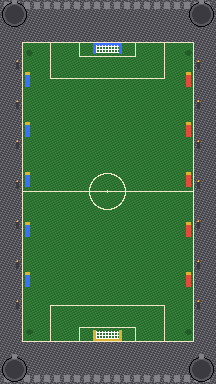
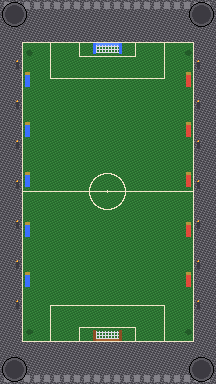
PIXEL: bronze pitch, grass clamp, letterbox, cream HUD.
Map sim to Pixel Forge physics_clamp; draw tighter car sprites; letterbox 216×384; cream/navy boost/chat over bronze south goal.

diff --git a/pixel.js b/pixel.js
@@ -1,14 +1,16 @@
 /**
  * PIXEL mode — Pixel Forge castle pitch + 8-dir vehicle atlases + ball VFX.
- * Same sim bodies (x/z/yaw); no physics here.
+ * Same sim bodies (x/z/yaw). Playable area maps to grass inset (not walls/sky).
  */
 import { FW, FL } from "./catalog.js";
 
 const CELL = 32;
-const GUT = 1; // between cells only (no outer frame)
+const GUT = 1;
 const ROW_OF = { cybertruck: 0, model3: 1, cybercab: 2, semi: 3 };
 
-// ball_vfx_atlas.png row layout (1px magenta between rows)
+// pitch_216x384.png — Pixel Forge physics_clamp (inclusive xyxy)
+const CLAMP = { x0: 24, y0: 44, x1: 191, y1: 339 };
+
 const BALL = {
   ball16: { y: 0, size: 16, frames: 4 },
   ball24: { y: 17, size: 24, frames: 4 },
@@ -29,8 +31,6 @@ function loadImage(src) {
 }
 
 function yawToCol(yaw) {
-  // forward: (-sin yaw, -cos yaw). atan2(fwdX,fwdZ):
-  // yaw=0 → -z (screen up) → S; yaw=π → +z (screen down) → N
   const fwdX = -Math.sin(yaw);
   const fwdZ = -Math.cos(yaw);
   let ang = Math.atan2(fwdX, fwdZ);
@@ -44,9 +44,6 @@ function createPixelView() {
   canvas.setAttribute("aria-hidden", "true");
   Object.assign(canvas.style, {
     position: "fixed",
-    inset: "0",
-    width: "100%",
-    height: "100%",
     zIndex: "0",
     display: "none",
     imageRendering: "pixelated",
@@ -91,15 +88,12 @@ function createPixelView() {
   function isActive() { return active; }
 
   function worldTo(x, z) {
-    const padX = 18;
-    const padTop = 28;
-    const padBot = 28;
-    const fieldW = VW - padX * 2;
-    const fieldH = VH - padTop - padBot;
+    const gw = CLAMP.x1 - CLAMP.x0;
+    const gh = CLAMP.y1 - CLAMP.y0;
     return {
-      sx: padX + (x / FW + 0.5) * fieldW,
-      sy: padTop + (z / FL + 0.5) * fieldH,
-      scale: fieldW / FW
+      sx: CLAMP.x0 + (x / FW + 0.5) * gw,
+      sy: CLAMP.y0 + (z / FL + 0.5) * gh,
+      scale: gw / FW
     };
   }
 
@@ -108,35 +102,35 @@ function createPixelView() {
       ctx.imageSmoothingEnabled = false;
       ctx.drawImage(pitchImg, 0, 0, VW, VH);
       if (night) {
-        ctx.fillStyle = "rgba(8,16,48,0.28)";
+        ctx.fillStyle = "rgba(8,16,48,0.22)";
         ctx.fillRect(0, 0, VW, VH);
       }
       return;
     }
-    ctx.fillStyle = night ? "#0c1430" : "#3a6aaa";
+    ctx.fillStyle = "#0c1430";
     ctx.fillRect(0, 0, VW, VH);
-    ctx.fillStyle = night ? "#1e6b28" : "#2f9a3a";
-    ctx.fillRect(20, 18, VW - 40, VH - 36);
   }
 
-  function blitCar(kind, yaw, boosting, sx, sy, scale) {
-    const row = ROW_OF[kind] ?? 1;
-    const col = yawToCol(yaw);
-    const sheet = boosting && boostImg ? boostImg : carsImg;
+  function blitCar(c, sx, sy, scale) {
+    const row = ROW_OF[c.kind] ?? 1;
+    const col = yawToCol(c.yaw);
+    const sheet = c.boosting && boostImg ? boostImg : carsImg;
     if (!sheet) return false;
     const sx0 = col * (CELL + GUT);
     const sy0 = row * (CELL + GUT);
-    const draw = Math.max(16, Math.min(40, scale * 3.4));
-    ctx.drawImage(sheet, sx0, sy0, CELL, CELL, sx - draw / 2, sy - draw / 2, draw, draw);
+    // Hug the art (~75% of the 32px cell); skip 1px in case magenta gutter bleeds
+    const worldLen = Number.isFinite(c.l) ? c.l : 4;
+    const draw = Math.max(10, Math.min(26, worldLen * scale * 0.72));
+    ctx.drawImage(sheet, sx0 + 1, sy0 + 1, CELL - 2, CELL - 2, sx - draw / 2, sy - draw / 2, draw, draw);
     return true;
   }
 
   function drawCar(c) {
     if (!c) return;
     const { sx, sy, scale } = worldTo(c.x, c.z);
-    if (!blitCar(c.kind, c.yaw, !!c.boosting, sx, sy, scale)) {
+    if (!blitCar(c, sx, sy, scale)) {
       ctx.fillStyle = "#3a6fff";
-      ctx.fillRect(sx - 4, sy - 3, 8, 6);
+      ctx.fillRect(sx - 3, sy - 2, 6, 4);
     }
   }
 
@@ -153,10 +147,9 @@ function createPixelView() {
   function drawBall(ball) {
     if (!ball) return;
     const { sx, sy, scale } = worldTo(ball.x, ball.z);
-    const r = Math.max(4, 0.6 * scale);
+    const r = Math.max(3, 0.45 * scale);
     const spin = Math.abs(ball.vx || 0) + Math.abs(ball.vz || 0);
     const frame = Math.floor((tAnim * 10 + spin * 0.15) % 4);
-
     blitVfx("shadow", 0, sx - r, sy + r * 0.35, r * 2, r);
     if (!blitVfx("ball24", frame, sx - r, sy - r, r * 2, r * 2)) {
       ctx.fillStyle = "#f4f0e6";
@@ -167,14 +160,14 @@ function createPixelView() {
   }
 
   function drawHud(label) {
-    ctx.fillStyle = "rgba(0,0,0,0.5)";
-    ctx.fillRect(4, 3, 110, 14);
-    ctx.fillStyle = "#f0c020";
-    ctx.font = "bold 8px monospace";
-    ctx.fillText("GROKET · PIXEL", 8, 13);
+    ctx.fillStyle = "rgba(10,16,32,0.72)";
+    ctx.fillRect(4, 3, 102, 13);
     ctx.fillStyle = "#f7f1d0";
+    ctx.font = "bold 8px monospace";
+    ctx.fillText("GROKET  PIXEL", 8, 12);
+    ctx.fillStyle = "#c8d4ff";
     ctx.font = "7px monospace";
-    ctx.fillText(label || (night ? "TORCH NIGHT" : "CASTLE DAY"), VW - 72, 13);
+    ctx.fillText(label || (night ? "TORCH NIGHT" : "CASTLE DAY"), VW - 70, 12);
   }
 
   function draw(state) {
@@ -191,7 +184,7 @@ function createPixelView() {
       ctx.fillRect(VW / 2 - 42, VH / 2 - 8, 84, 16);
       ctx.fillStyle = "#fff";
       ctx.font = "8px monospace";
-      ctx.fillText("LOADING SPRITES…", VW / 2 - 38, VH / 2 + 3);
+      ctx.fillText("LOADING SPRITES...", VW / 2 - 38, VH / 2 + 3);
     }
   }
 
@@ -199,5 +192,3 @@ function createPixelView() {
 }
 
 export { createPixelView };
-
-

diff --git a/style.css b/style.css
@@ -1,4 +1,4 @@
-:root { --yel: #f0c020; --ink: #0b0d10; --blu: #3a6fff; }
+:root { --yel: #f0c020; --ink: #0b0d10; --blu: #3a6fff; }
 * { box-sizing: border-box; margin: 0; padding: 0; }
 html, body { width: 100%; height: 100%; overflow: hidden; background: #14305a; font-family: "Bebas Neue", Impact, sans-serif; color: #fff; }
 canvas { display: block; width: 100%; height: 100%; image-rendering: pixelated; image-rendering: crisp-edges; }
@@ -634,3 +634,25 @@ body.garageSearching #credit { visibility:hidden; pointer-events:none; }
 .gfxSub { margin-top:4px; color:#fff9; font-size:11px; letter-spacing:1px; }
 body.pixel-mode canvas:not(#pixelView) { visibility:hidden !important; }
 #pixelView { image-rendering: pixelated; image-rendering: crisp-edges; }
+
+/* PIXEL: portrait letterbox + cream/navy HUD (no chrome-yellow over bronze south) */
+#pixelView {
+  inset: auto;
+  top: 50%;
+  left: 50%;
+  transform: translate(-50%, -50%);
+  width: min(100vw, calc(100vh * 216 / 384));
+  height: min(100vh, calc(100vw * 384 / 216));
+  background: #0c1430;
+}
+body.pixel-mode { background: #0c1430; }
+body.pixel-mode #boostHud .lab { color: #f7f1d0; }
+body.pixel-mode #boostBar { border-color: #f7f1d066; background: #0b1020aa; }
+body.pixel-mode #boostFill { background: #f7f1d0; }
+body.pixel-mode .chatline.p1 { border-color: #f7f1d088; }
+body.pixel-mode .chatline.p1 .who { color: #f7f1d0; }
+body.pixel-mode .scorebox.p1 { border-color: #f7f1d0; }
+body.pixel-mode .scorebox.p1 .who,
+body.pixel-mode .scorebox.p1 .lab { color: #f7f1d0; }
+body.pixel-mode #clock { color: #f7f1d0; }
+body.pixel-mode #hudP1Who.xNamed { color: #f7f1d0; }
